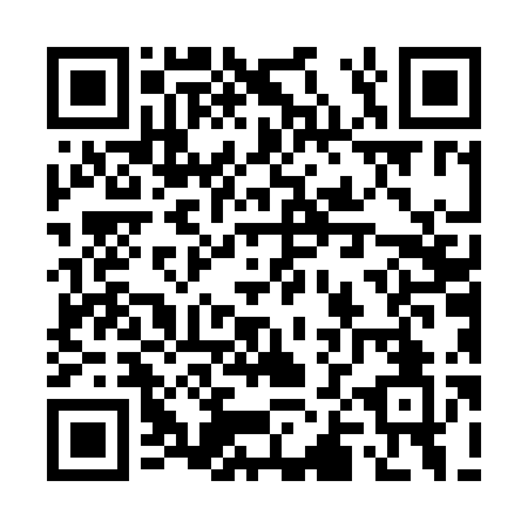
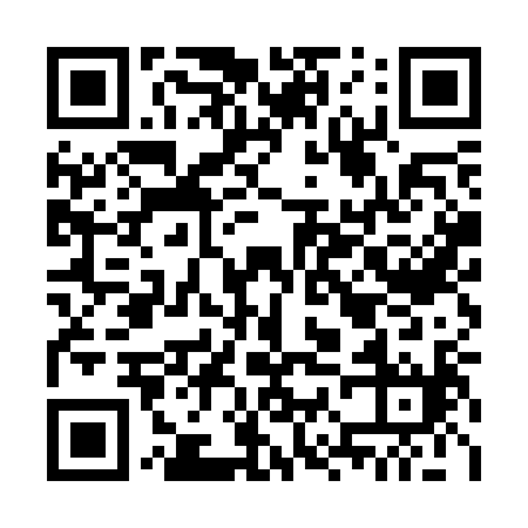
Point share link and QR code at the club organisation address
Claude-Session: https://claude.ai/code/session_01XNjybAZ2iVZDYsVNeHkaDJ

diff --git a/index.html b/index.html
@@ -338,7 +338,7 @@ footer { border-top: 1px solid var(--rule); padding-top: 18px; display: flex; fl
       <img src="img/qr.png" alt="QR code that opens this page" width="132" height="132">
       <div>
         <p>Ask another parent or coach to scan this code with their phone camera, or send them the link.</p>
-        <p class="line"><span class="val">https://tomlee1150-a11y.github.io/east-hull-falcons/</span> <button class="copy" type="button" data-copy="https://tomlee1150-a11y.github.io/east-hull-falcons/">Copy</button></p>
+        <p class="line"><span class="val">https://east-hull-falcons-fc.github.io/east-hull-falcons/</span> <button class="copy" type="button" data-copy="https://east-hull-falcons-fc.github.io/east-hull-falcons/">Copy</button></p>
       </div>
     </div>
   </section>

diff --git a/README.md b/README.md
@@ -2,7 +2,7 @@
 
 The club's safeguarding contacts, reporting guide, policies, codes of conduct and rules, published as a web page for parents, players and coaches.
 
-Live page: https://tomlee1150-a11y.github.io/east-hull-falcons/
+Live page: https://east-hull-falcons-fc.github.io/east-hull-falcons/
 
 - `index.html` is the page.
 - `pdf/` holds the documents as PDFs.
